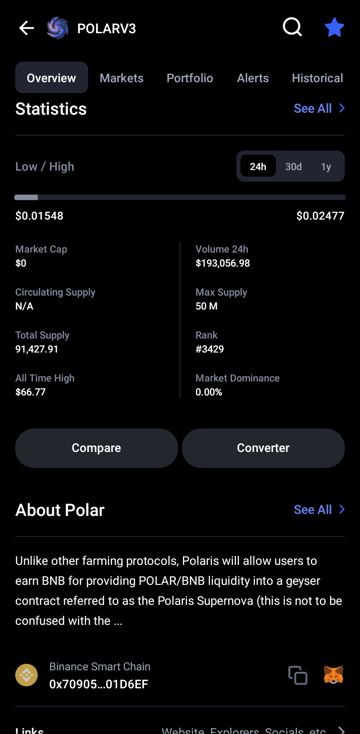
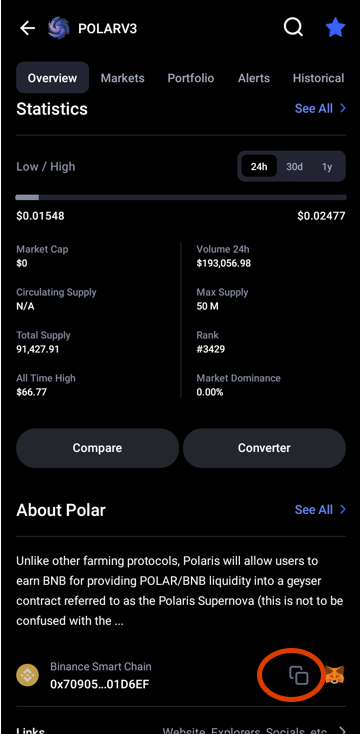
:memo: new content fix

diff --git a/docs/wallet/add-tokens.md b/docs/wallet/add-tokens.md
@@ -18,7 +18,7 @@ Oh no, here's a common misadventure you'll encounter soon enough. Let's say I ju
 
 2. Research Contract
 
-I need to head over to [CoinMarketCap.com](https://coinmarketcap.com/currencies/polaris-share/) to look up the Polaris token *contract address*.
+I need to head over to [CoinMarketCap.com](https://coinmarketcap.com/currencies/polaris-share/) to look up the Polaris token *contract address*. The Copy symbol will auto-copy it to my clipboard.
 
 
 ![How to add a new token to your Trust Wallet](../../static/img/addtokens3.png)
@@ -30,7 +30,8 @@ Then I'll click *Receive* button up top in Trust Wallet.
 I'll search for 'Polaris', and when it doesn't show up, choose *Add Custom Token*
 
 
-![How to add a new token to your Trust Wallet](../../static/img/addtokens4.png)
+![How to add a new token to your Trust Wallet](../../static/img/addtokens4a.png)
+![How to add a new token to your Trust Wallet](../../static/img/addtokens4b.png)
 
 4. Add token contract
 
